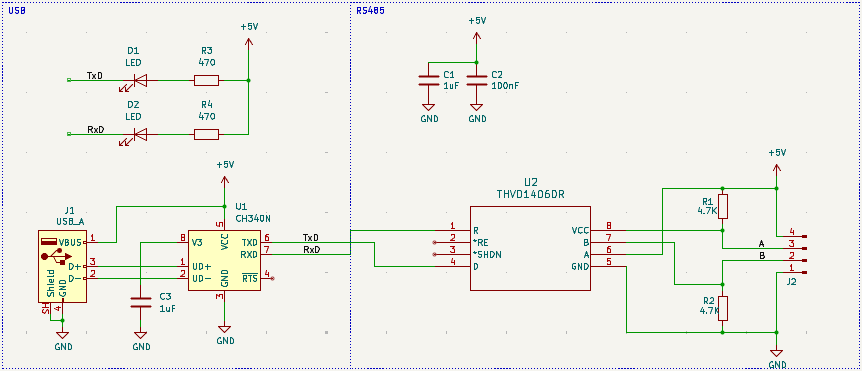
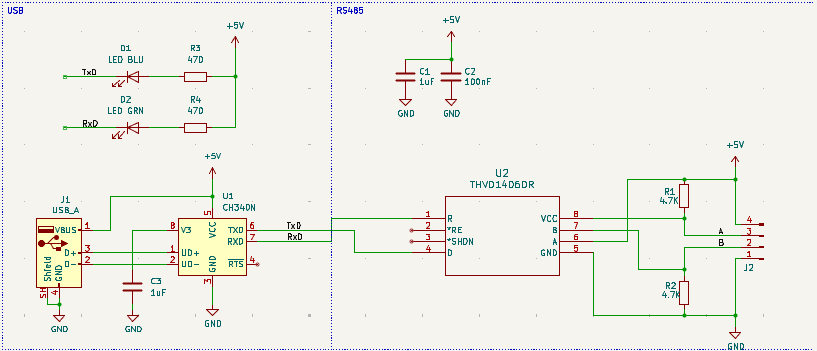
Further cleanup of README.md Actually update schematic.png

diff --git a/README.md b/README.md
@@ -14,9 +14,3 @@
 ![schematic](doc/schematic.png)
 
 The BOM is in the doc folder.
-
-## RS485 configuration:
-
-The built-in CH340 3.3V LDO can provide a 3.3V supply for the RS485 transceiver which makes populating the linear voltage regulator U3 (XC6206P332MR) optional. For most applications it's better to populate U3 since the maximum number of RS485 nodes that can be connected to the bus might be limited by the current that the internal LDO can provide.
-
-Note: SW1 controls "TX-RX echo" (pin1-1 closed) or "no echo" (pin2-3 closed, this is standard RS485 functionality). If switching isn't required the pads can be bridged with a bit of solder. Most people won't need switching and in a re-design I would certainly replace SW1 with a jumper.
